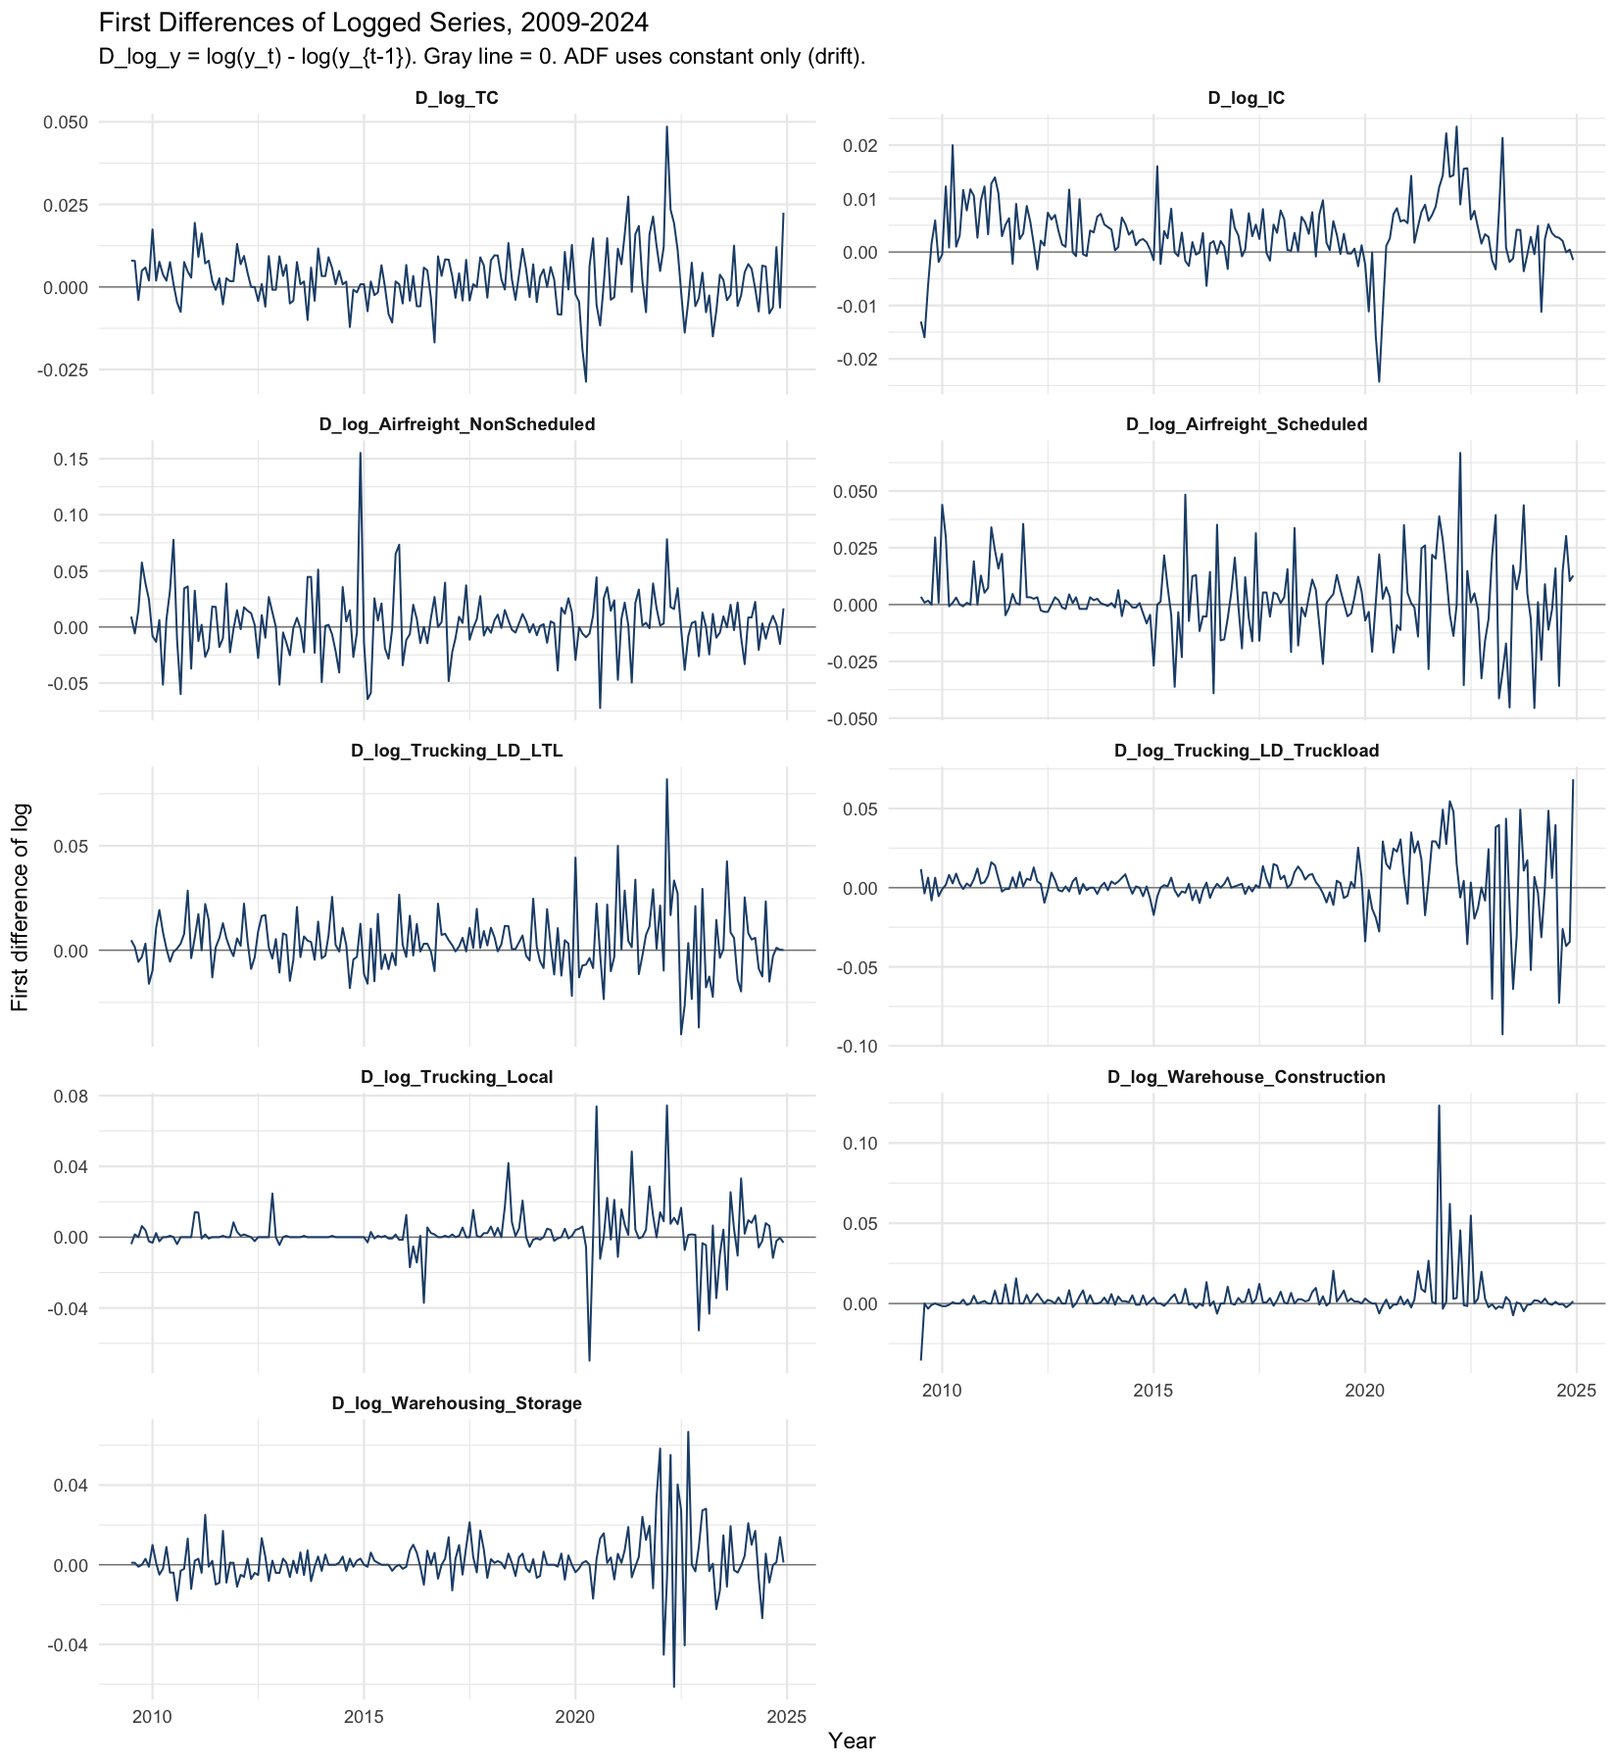
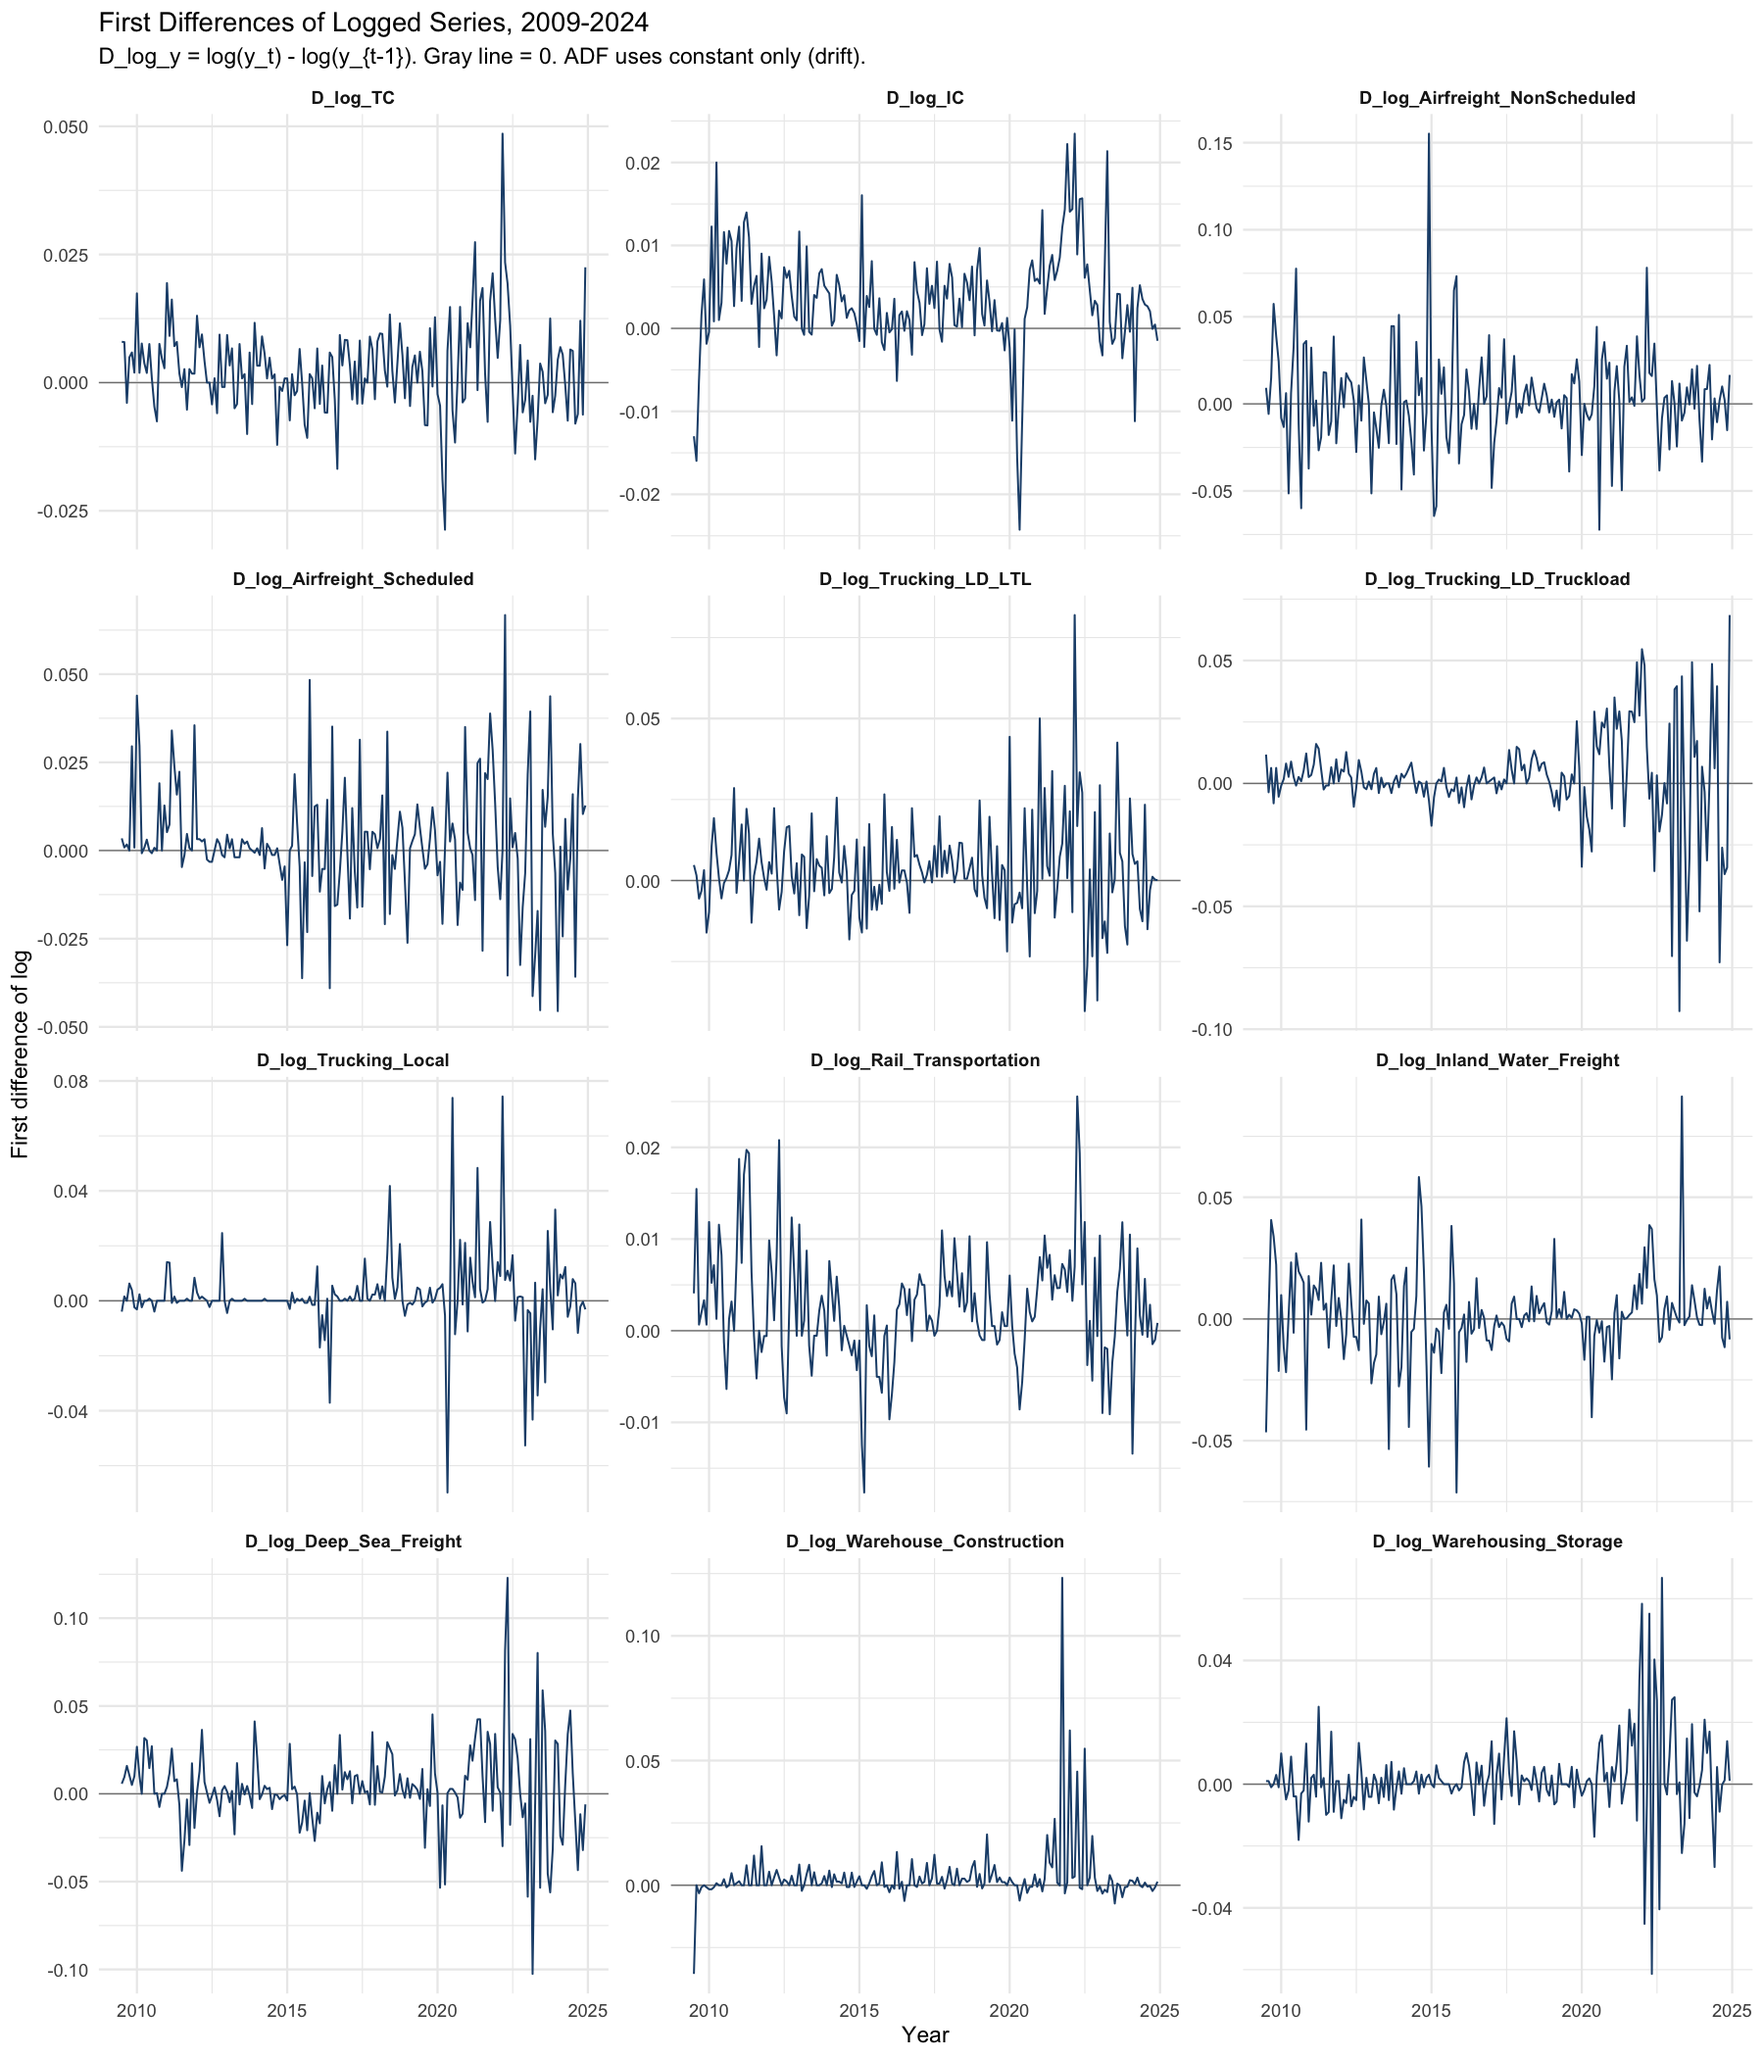
Add rail, inland-water, and deep-sea modes and keep only current plots.
Point the analysis at the 10-mode workbook, drop leftover raw-level figures, and regenerate ADF/Johansen outputs in place.

diff --git a/README.md b/README.md
@@ -4,11 +4,11 @@ Monthly U.S. transportation cost indexes and inventory levels (2009–2024) for 
 
 ## Data
 
-`Transportation_Inventory_Complete_with_WPU30.xlsx` (Jun 2009–Dec 2024, 187 months, no missing values)
+`Transportation_Inventory_Complete_10_Modes_WPU30.xlsx` (Jun 2009–Dec 2024, 187 months, no missing values)
 
 - **IC** = `Total_Inventories` (Census MTIS, $ millions)
 - **TC** = `TC_Aggregate_WPU30` (BLS WPU30 transportation services aggregate)
-- **Modes** = seven BLS transportation service cost indexes, including `Warehousing_Storage`
+- **Modes** = ten BLS transportation service cost indexes, including `Rail_Transportation`, `Inland_Water_Freight`, `Deep_Sea_Freight`, and `Warehousing_Storage`
 
 ## Analysis
 
@@ -21,4 +21,4 @@ Monthly U.S. transportation cost indexes and inventory levels (2009–2024) for 
 Rscript load_transportation_data.R
 ```
 
-Plots and Johansen tables are written to `plots/`.
+Each run clears `plots/` and writes only the current figures and Johansen tables.
